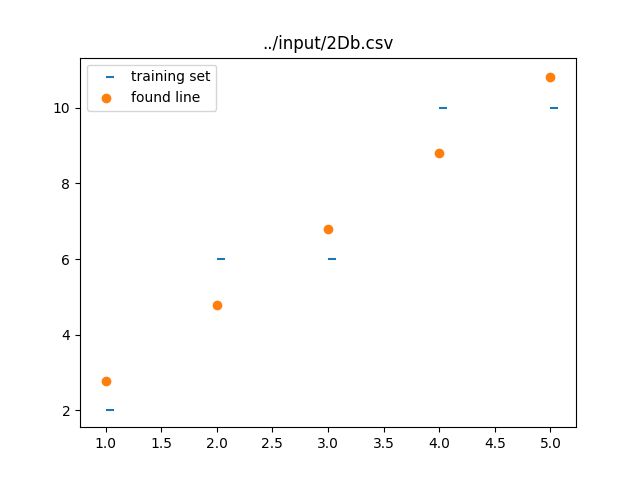
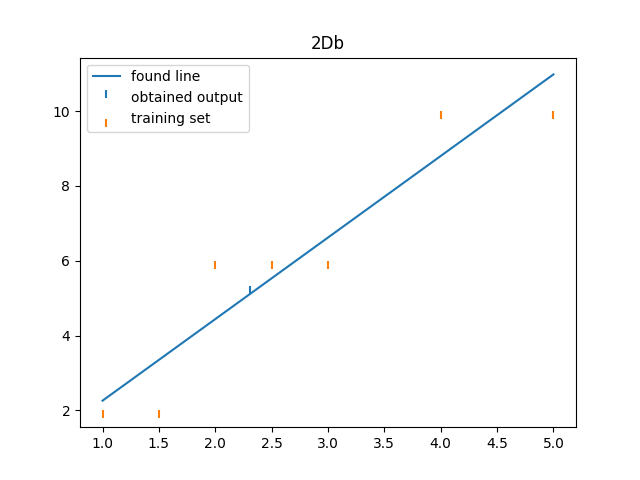
Now working with 2D and 3D

diff --git a/src/calculations/calculations.py b/src/calculations/calculations.py
@@ -1,43 +1,46 @@
-from src.tools.file_tools import obtain_input
 import random
 
 
-def gradient_descent(input_file):
-    input_data = obtain_input(input_file)
-    step_size = 0.01
-    thetas = []
-    for i in range(0, len(input_data[0])):
-        thetas.append(random.randint(0, 5))
-    print(thetas)
+def gradient_descent(input_data):
+    step_size = 0.001
+    thetas = initialize_thetas(input_data[0])
     samples = len(input_data)
-    for i in range(0, 10000):
-        new_thetas = []
+    max_iters = 1000000
+    iters = 0
+    max_error = 0.00000000000000000001
+    c_error = 0.1
+    new_thetas = []
+    while iters < max_iters and max_error < c_error:
         for _ in range(0, len(input_data[0])):
             new_thetas.append(0)
         for ind, training_example in enumerate(input_data):
             cost = obtain_cost(training_example, thetas)
             new_thetas = obtain_new_thetas(new_thetas, cost, training_example, samples)
-        new_thetas = update_thetas(new_thetas, thetas, step_size)
-        if check_converged(thetas, new_thetas):
-            print(i)
-            break
-        thetas = new_thetas
-    print(new_thetas)
-    return input_data, new_thetas
+        new_thetas, c_error = update_thetas(new_thetas, thetas, step_size)
+        thetas = list(new_thetas)
+        new_thetas = []
+        iters += 1
+    print("Iterations: {}".format(iters))
+    print("Result: {}".format(thetas))
+    return thetas
 
 
-def check_converged(thetas, prev_thetas):
-    for ind, theta in enumerate(thetas):
-        if not (theta - prev_thetas[ind]) ** 2 < 0.0000001:
-            return False
-    return True
+def initialize_thetas(input_example):
+    thetas = []
+    for i in range(0, len(input_example)):
+        thetas.append(random.randint(0, 5))
+    print("Initial thetas: {}".format(thetas))
+    return thetas
 
 
 def update_thetas(new_thetas, thetas, step_size):
     updated_thetas = []
+    total_error = 0
     for ind, theta in enumerate(thetas):
-        updated_thetas.append(theta - (step_size * new_thetas[ind]))
-    return updated_thetas
+        error = step_size * new_thetas[ind]
+        total_error += error
+        updated_thetas.append(theta - error)
+    return updated_thetas, abs(total_error)
 
 
 def obtain_new_thetas(new_thetas, cost, training_example, samples):
@@ -62,3 +65,21 @@ def obtain_hypothesis(training_example, thetas):
         else:
             total += training_example[ind - 1] * theta
     return total
+
+
+def obtain_output_from_input(desired_input, trained_model):
+    result = desired_input
+    total = trained_model[0]
+    for ind, val in enumerate(desired_input):
+        total += val * trained_model[ind + 1]
+    result.append(total)
+    print("Result from input: {}".format(result))
+    return result
+
+
+def obtain_random_input(input_data):
+    input_value = []
+    for _ in range(0, len(input_data)-1):
+        input_value.append(random.uniform(1.0, 4.0))
+    print("Values to analyze: {}".format(input_value))
+    return input_value

diff --git a/src/tools/plot_tools.py b/src/tools/plot_tools.py
@@ -1,20 +1,49 @@
 import matplotlib.pyplot as plt
+from mpl_toolkits.mplot3d import Axes3D
 
 
-def plot_points(title, training_data, found_result):
+def plot_points(title, training_data, found_result, calculated_value):
+    if len(training_data[0]) == 2:
+        plt.scatter(calculated_value[0], calculated_value[1], label='obtained output', marker=5)
 
-    x = [item[0] for item in training_data]
-    y = [item[1] for item in training_data]
-    plt.scatter(x, y, label='training set', marker=1)
+        x = [item[0] for item in training_data]
+        y = [item[1] for item in training_data]
+        plt.scatter(x, y, label='training set', marker=6)
 
-    x = []
-    y = []
-    for t in training_data:
-        x.append(t[0])
-        y.append(round(found_result[1] * t[0] + found_result[0], 2))
-    plt.scatter(x, y, label='found line')
+        x = []
+        y = []
+        for t in training_data:
+            x.append(t[0])
+            y.append(round(found_result[1] * t[0] + found_result[0], 2))
+        plt.plot(x, y, label='found line')
+    elif len(training_data[0]) == 3:
+        fig = plt.figure()
+        ax = fig.add_subplot(111, projection='3d')
 
-    plt.title(title)
+        ax.scatter(calculated_value[0],
+                   calculated_value[1],
+                   calculated_value[2],
+                   label='obtained output',
+                   marker=5)
+
+        x = [item[0] for item in training_data]
+        y = [item[1] for item in training_data]
+        z = [item[2] for item in training_data]
+        ax.scatter(x, y, z, label='training set', marker=6)
+
+        x = []
+        y = []
+        z = []
+        for t in training_data:
+            x.append(t[0])
+            y.append(t[1])
+            z.append(round(found_result[2] * t[1] + found_result[1] * t[0] + found_result[0], 2))
+        ax.plot(x, y, z, label='found line')
+    else:
+        print("plot not ready")
+        return
+
+    plt.title(title.split('/')[2].split('.')[0])
 
     plt.legend()
 

diff --git a/src/main.py b/src/main.py
@@ -3,7 +3,10 @@ import logging
 import sys
 
 from src.calculations.calculations import gradient_descent
+from src.calculations.calculations import obtain_output_from_input
+from src.calculations.calculations import obtain_random_input
 from src.tools.plot_tools import plot_points
+from src.tools.file_tools import obtain_input
 
 
 def args_handler(argv):
@@ -31,8 +34,12 @@ def _main(argv):
         title = args.file
     else:
         title = '../input/2D.csv'
-    input_data, result = gradient_descent(title)
-    plot_points(title, input_data, result)
+
+    input_data = obtain_input(title)
+    input_value = obtain_random_input(input_data[0])
+    result = gradient_descent(input_data)
+    calculated_value = obtain_output_from_input(input_value, result)
+    plot_points(title, input_data, result, calculated_value)
 
 
 if __name__ == '__main__':

diff --git a/src/tools/file_tools.py b/src/tools/file_tools.py
@@ -8,6 +8,6 @@ def obtain_input(input_file):
         for ind, z in enumerate(file):
             if ind == 0:
                 continue
-            z[:5] = map(int, z[0:5])
+            z[:5] = map(float, z[0:5])
             matrix.append(z)
     return matrix
